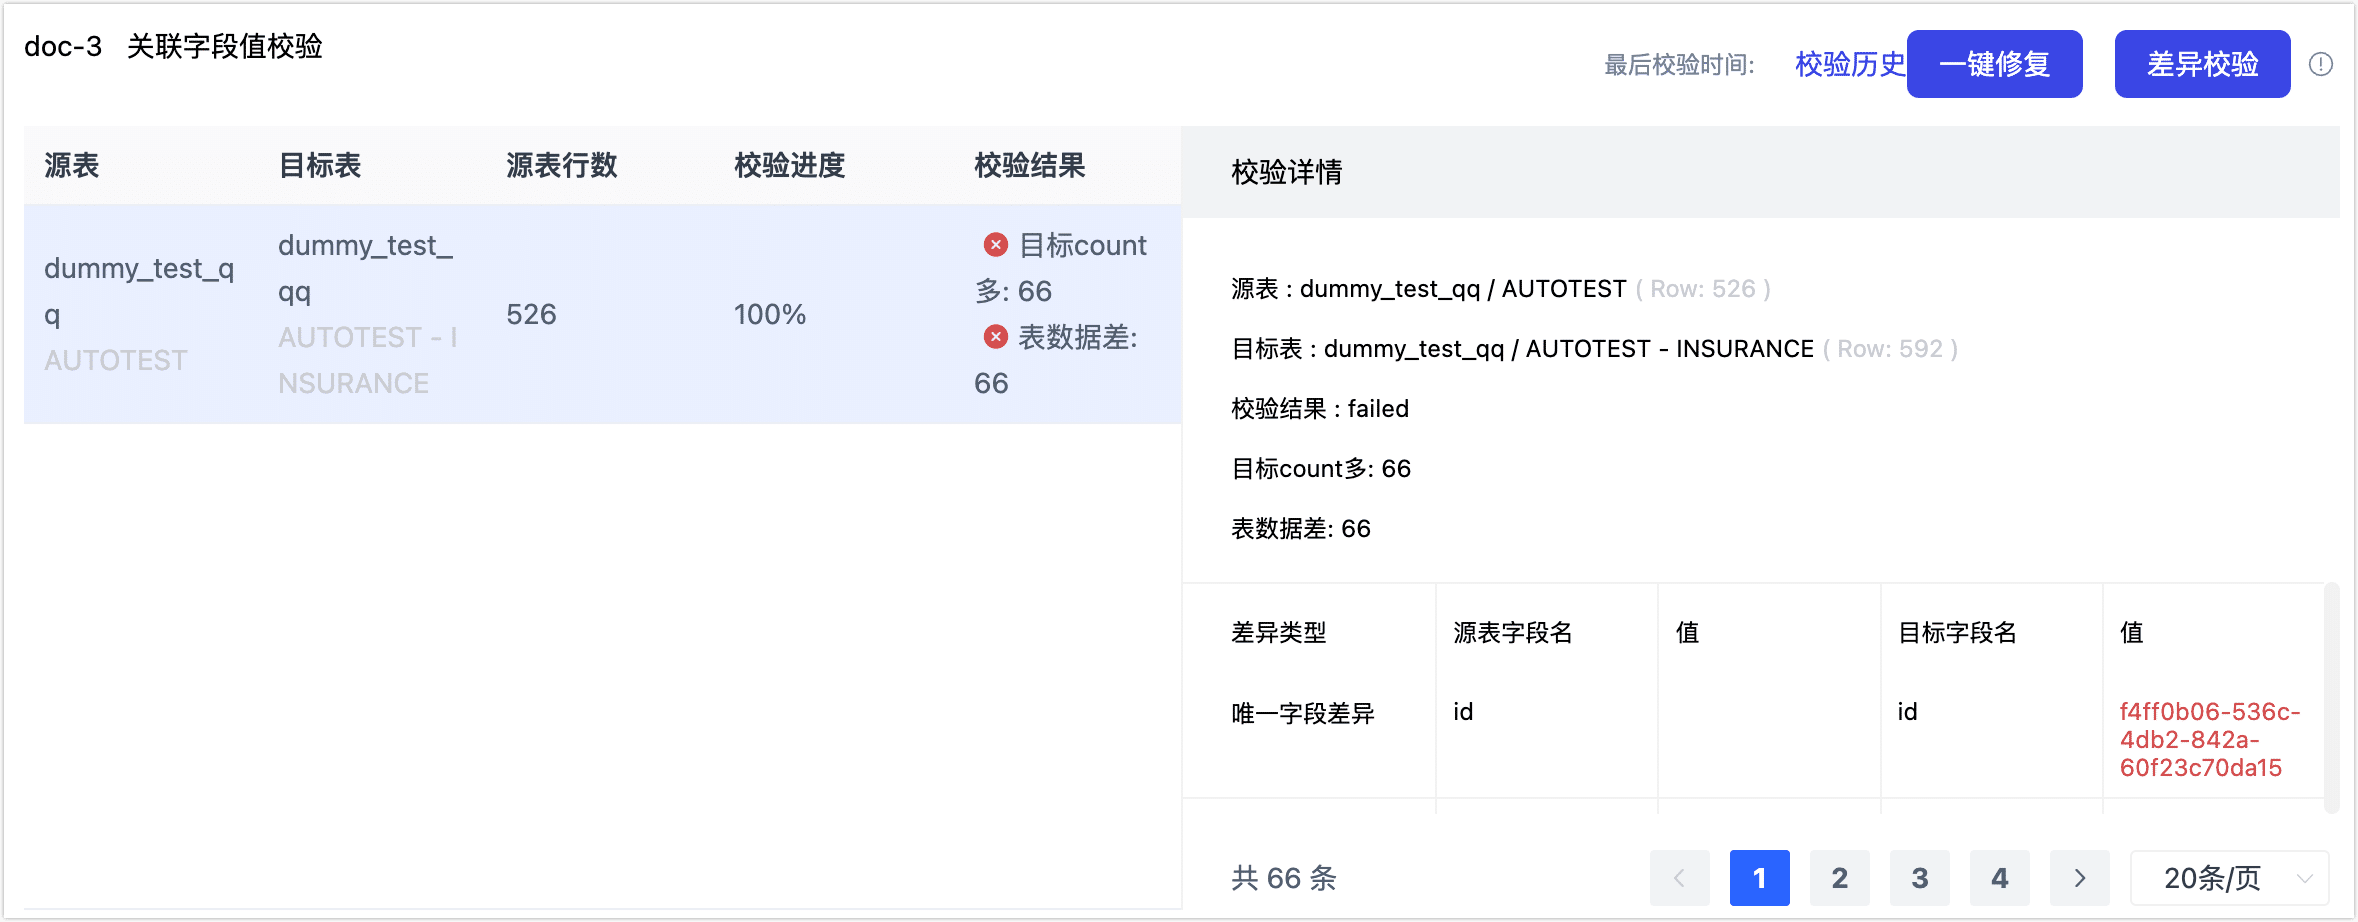
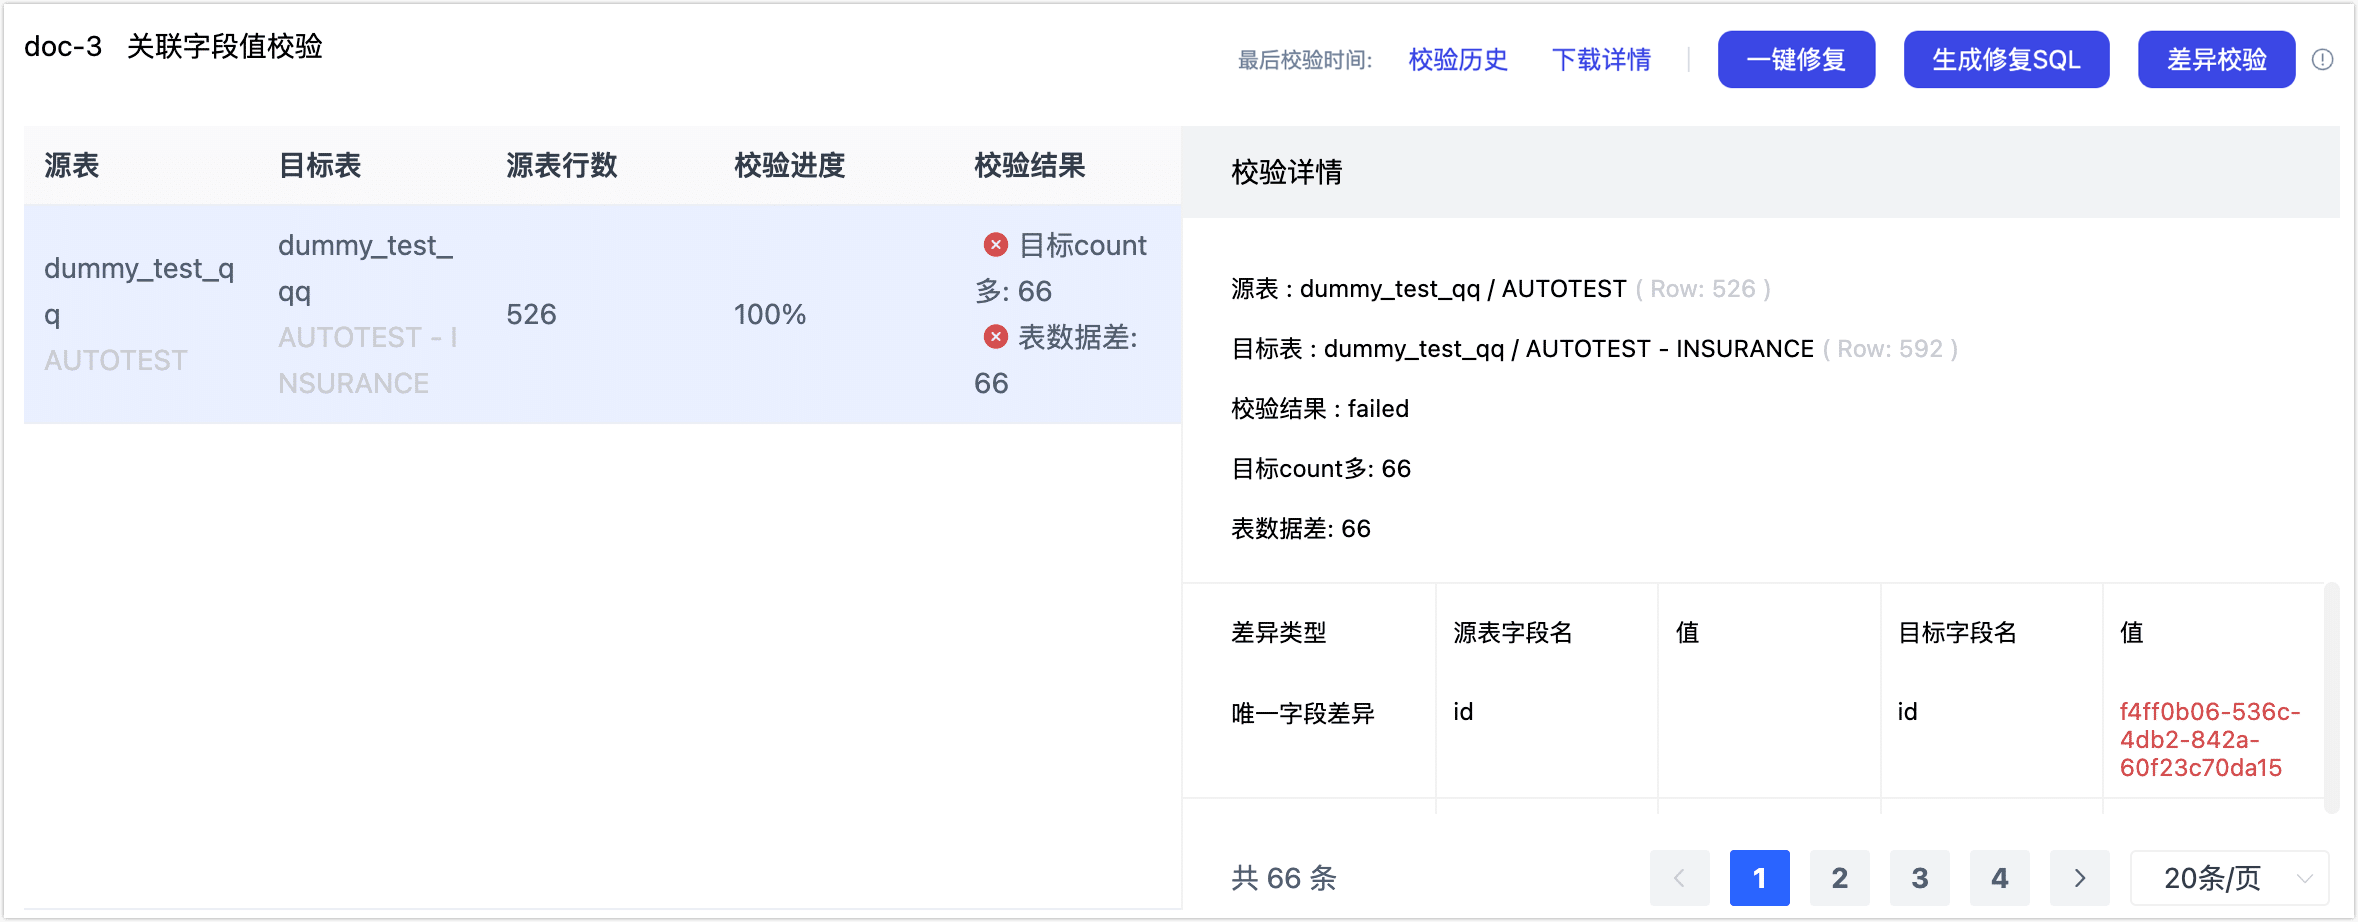
Release 4.3.0 + 4.4.0

Changed region(s): [[0.5263, 0.0304, 0.9907, 0.1215]]

diff --git a/docs/release-notes/release-notes-on-prem.md b/docs/release-notes/release-notes-on-prem.md
@@ -17,6 +17,29 @@ import TabItem from '@theme/TabItem';
 <TabItem value="V4.x 版本" default>
 ```
 
+## 4.4.0
+
+### 新增功能
+
+- 支持无主键表的[增量数据校验](../user-guide/incremental-check.md)与手动修复，进一步扩大数据校验的适用范围，保障数据一致性
+- 增加任务重试时[发送告警](../user-guide/other-settings/notification.md#mail-alert)信息，确保故障场景可及时感知与响应
+- 任务编辑页面新增“节点数据预览”功能，支持在配置过程中即时查看字段样例，加快任务设计与调试效率
+
+### 功能优化
+
+- 增强数据源监控能力，新增对 **Sybase** 与 **PostgreSQL** 的连接状态与性能指标监控，提升系统可观测性
+
+## 4.3.0
+
+### 新增功能
+
+- [数据校验](../user-guide/verify-data.md)支持对校验结果不一致的时任务导出修复 SQL，现已兼容 **PostgreSQL**、**Sybase**、**SQL Server**，便于运维人员进行离线审计或手动回滚
+- JS 处理节点支持 `unset` 操作，可灵活清除 MongoDB 目标中的指定字段，满足字段清理与数据瘦身需求
+
+### 功能优化
+
+- 优化全量任务完成状态的判定逻辑，调整为以“目标端写入完成”为准，更贴近业务真实结束场景
+
 ## 4.2.0
 
 ### 新增功能

diff --git a/docs/user-guide/verify-data.md b/docs/user-guide/verify-data.md
@@ -76,12 +76,14 @@ import TabItem from '@theme/TabItem';
 
 5. （可选）单击校验任务对应的**详情**，查看详细校验结果，针对不一致情况可单击**一键修复**完成数据对齐或**下载详情**进行深入分析。
 
+   此外，您还可以**生成修复 SQL** 详细分析或手动前往数据库执行该 SQL 进行修复。
+
    ![查看校验结果](../images/check_data_result_cn.png)
 
    :::tip
 
    当校验类型为**全表字段值校验**或**关联字段值校验**时，您还可以单击右上角的**差异校验**，对本次全量校验的差异数据结果进行再次校验，以确认数据是否已经一致。
-
+   
    :::
    
 6. （可选）在校验任务列表页，支持任务配置的导入导出，可适用于测试与生产环境之间迁移或复用任务配置等场景。

diff --git a/docs/user-guide/incremental-check.md b/docs/user-guide/incremental-check.md
@@ -6,10 +6,6 @@ import Content from '../reuse-content/_enterprise-features.md';
 
 增量数据校验是一种提升实时数据一致性的解决方案，通过定期抽样对比源端和目标端在增量数据（新增或变更数据）上的差异，及时发现并自动修复数据不一致的问题，提升数据准确性与一致性。
 
-## 前提条件
-
-执行增量校验的表需具备主键或唯一索引。
-
 ## 背景介绍
 
 随着企业实时数据同步和集成场景的增加，数据在不同系统间的实时流转成为刚性需求。然而，实时数据同步面临网络延迟、系统异常、写入失败等诸多问题，导致数据在源端和目标端之间存在不一致，严重影响业务决策与运营效率。
